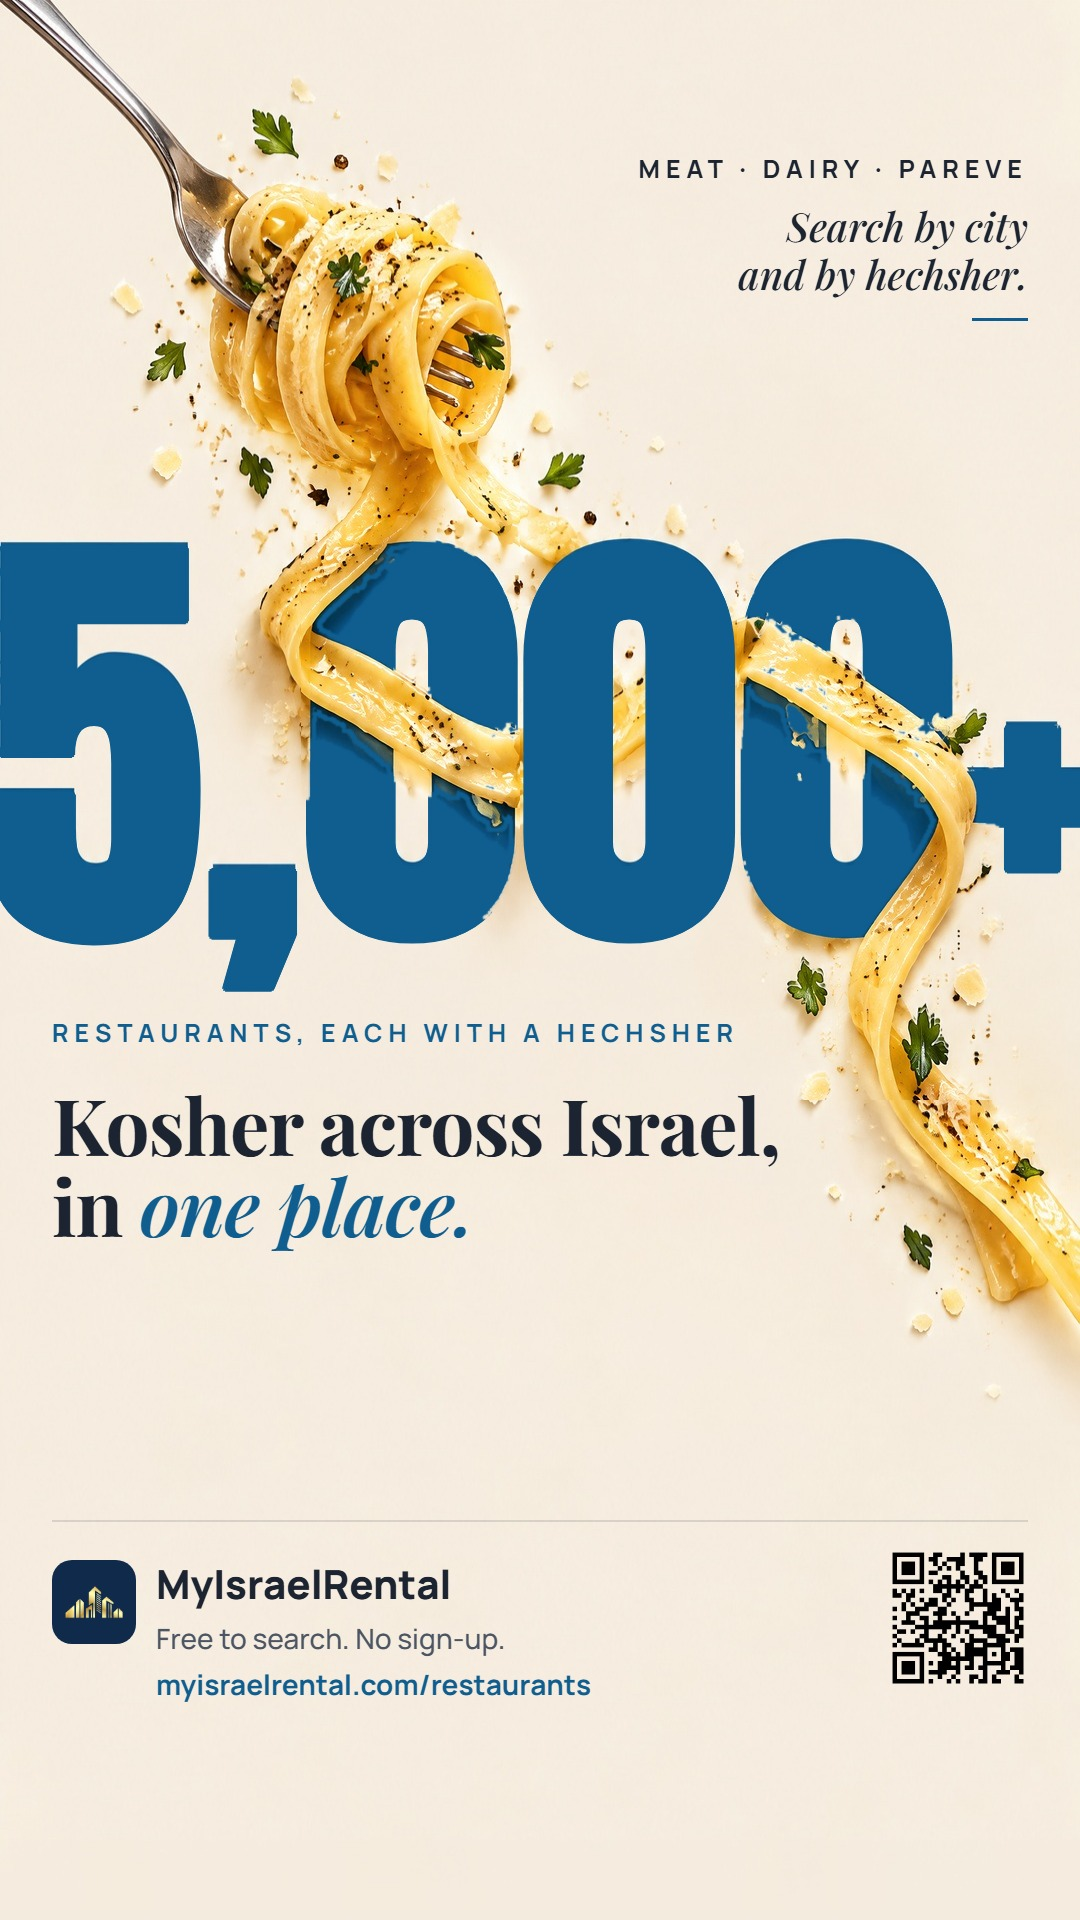
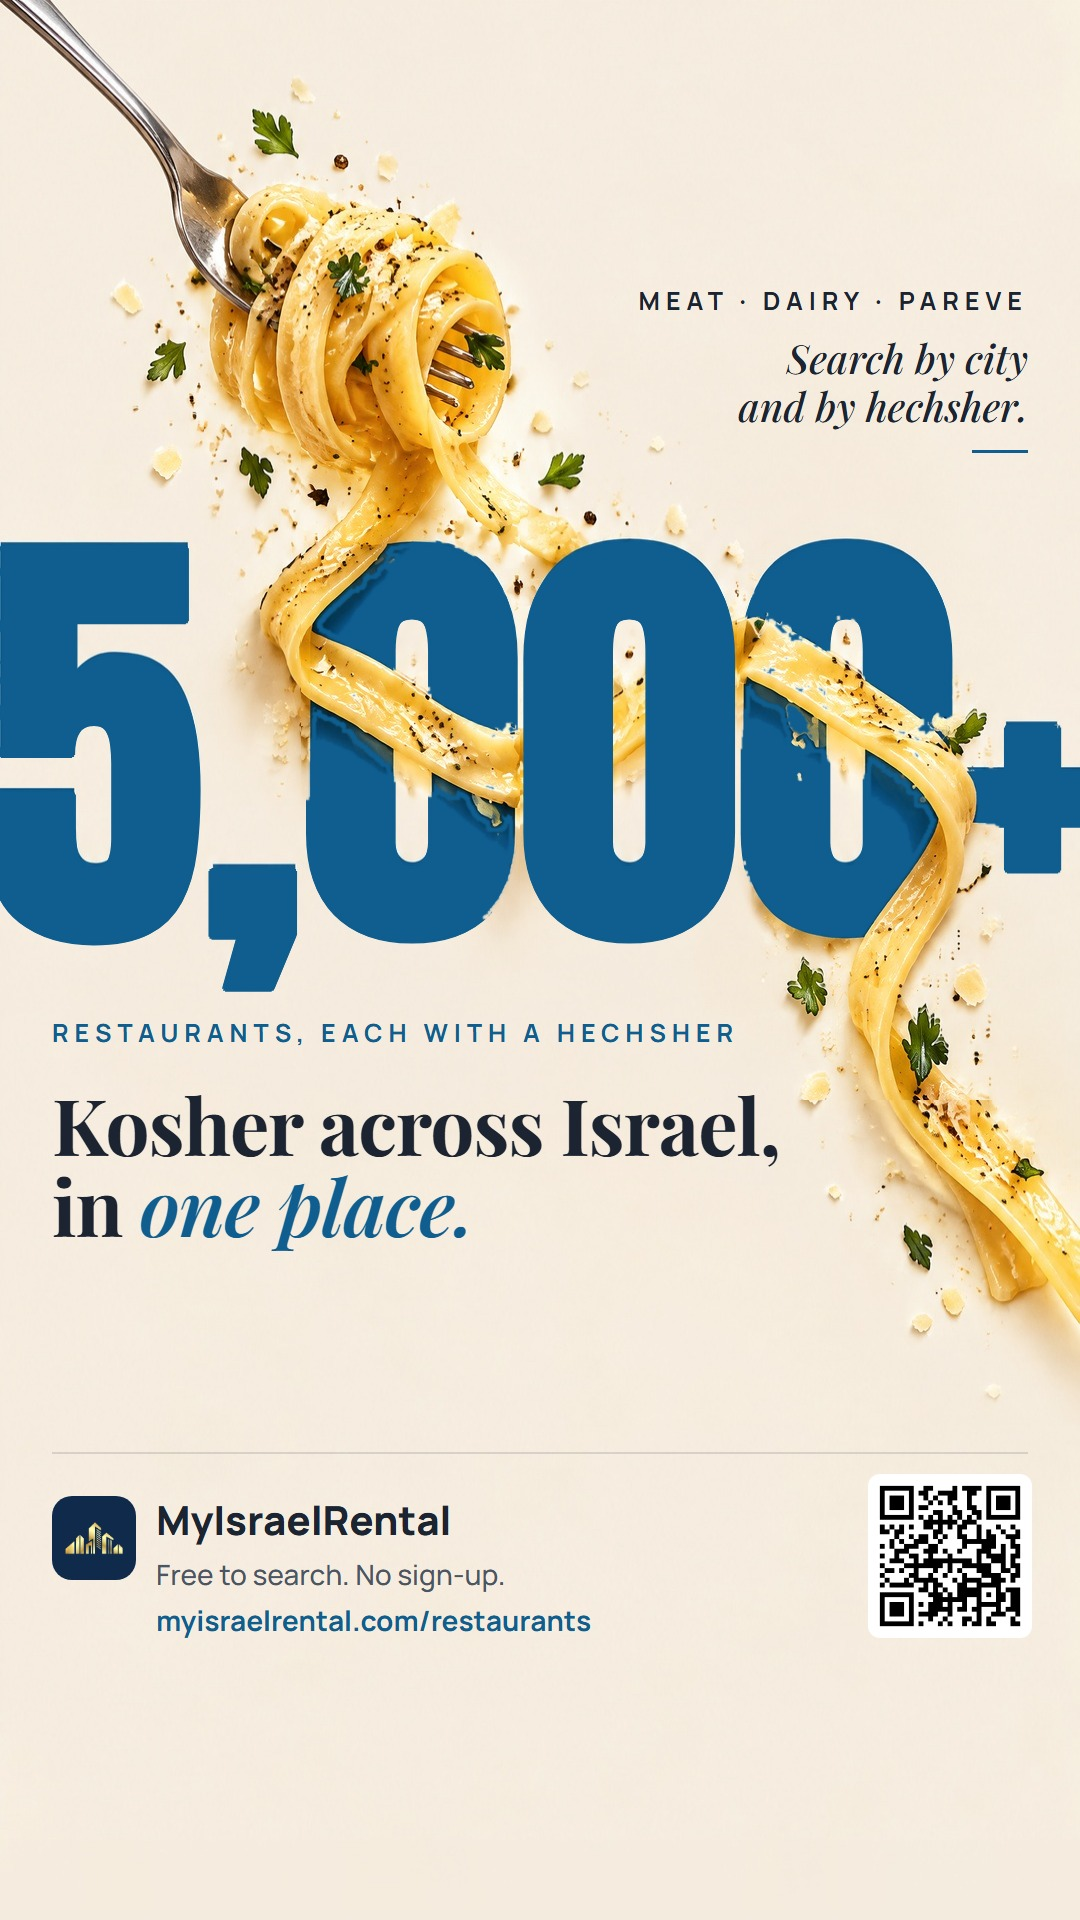
Restaurants ad: whole in a WhatsApp chat (Tzvi, 25 Nov 2026: 'When I send the ad on WhatsApp some of it is cut off unless people press on it'). The top note moves down to 282 and the foot up to 1474-1638, inside the rows 250 to 1670 a chat shows (rule A8.10, sheet docs/ads/myisraelrental-restaurants
Library score 5 (A9.7)

diff --git a/docs/ads/gen/myisraelrental-restaurants-status/ad.html b/docs/ads/gen/myisraelrental-restaurants-status/ad.html
@@ -14,23 +14,24 @@
 html,body{margin:0;background:#111}
 #ad{position:relative;width:1080px;height:1920px;overflow:hidden;background:#F3EBDD url(ground.jpg) 0 0/1080px 1910px no-repeat;font-family:Manrope,sans-serif;color:#1B2430}
 #num{position:absolute;left:-18px;right:-18px;top:520px;text-align:center;font:400 452px/1 Anton,sans-serif;letter-spacing:-6px;white-space:nowrap;color:#0F5E8F;text-shadow:3px 0px 0 #0F5E8F,-3px 0px 0 #0F5E8F,0px 3px 0 #0F5E8F,0px -3px 0 #0F5E8F,2px 2px 0 #0F5E8F,-2px 2px 0 #0F5E8F,2px -2px 0 #0F5E8F,-2px -2px 0 #0F5E8F}
+/* everything that must be read sits between y 250 and 1670, the part a WhatsApp chat shows (A8.10) */
 /* a 3px shadow ring (not a stroke, which seams inside the letters) covers the photo's own digits, a hair larger than ours */
 #front{position:absolute;left:0;top:0;width:1080px;height:1920px;pointer-events:none}
 .caps{font:700 25px/1.5 Manrope,sans-serif;letter-spacing:6px;text-transform:uppercase}
-#note{position:absolute;right:52px;top:150px;width:460px;text-align:right}
+#note{position:absolute;right:52px;top:282px;width:460px;text-align:right}
 #note .i{font:italic 500 40px/1.2 'Playfair Display',serif;margin-top:14px}
 #note .rule{width:56px;height:3px;background:#0F5E8F;margin:20px 0 0 auto}
 #kind{position:absolute;left:52px;top:1014px;color:#0F5E8F}
 #h1{position:absolute;left:52px;top:1084px;width:800px;font:700 78px/1.04 'Playfair Display',serif;letter-spacing:-1px}
 #h1 b{color:#0F5E8F;font-weight:700;font-style:italic}
-#logo{position:absolute;left:52px;top:1560px;width:84px;height:84px;border-radius:20px;background:#0F2A4A;object-fit:contain;padding:12px;box-sizing:border-box}
-#foot{position:absolute;left:156px;top:1556px;width:640px;color:#1B2430}
+#logo{position:absolute;left:52px;top:1496px;width:84px;height:84px;border-radius:20px;background:#0F2A4A;object-fit:contain;padding:12px;box-sizing:border-box}
+#foot{position:absolute;left:156px;top:1492px;width:640px;color:#1B2430}
 #foot .n{font-weight:800;font-size:40px}
 #foot .s{font-weight:500;font-size:28px;margin-top:8px;color:#4B5563}
 #foot .u{font-weight:700;font-size:28px;margin-top:8px;color:#0F5E8F}
-#qr{position:absolute;left:888px;top:1548px;width:140px;height:140px;background:transparent;padding:0;box-sizing:border-box}
-#qr img{width:100%;height:100%;mix-blend-mode:multiply}
-#line{position:absolute;left:52px;right:52px;top:1520px;height:2px;background:#1B243022}
+#qr{position:absolute;left:868px;top:1474px;width:164px;height:164px;background:#fff;border-radius:12px;padding:7px;box-sizing:border-box}
+#qr img{width:100%;height:100%}
+#line{position:absolute;left:52px;right:52px;top:1452px;height:2px;background:#1B243022}
 </style></head><body>
 <div id="ad">
   <div id="num">5,000+</div>

diff --git a/docs/ads/blueprints/myisraelrental-restaurants-status.md b/docs/ads/blueprints/myisraelrental-restaurants-status.md
@@ -145,6 +145,9 @@ Every ad rule, in making order (docs/ad-rules-checklist.md). Answer a stage befo
 - [x] A8.9 The picture that leaves the site is drawn at double size (2160 wide) from the best copy of the photo, never the preview.
   plan: measured by check-ad-designs (sharp)
 
+- [x] A8.10 Whole in a WhatsApp chat: a chat shows a tall picture only as its middle until someone taps it, and most never tap. On a 1080x1920 ad every word, the business's name, the link, the logo and the QR sit between y 250 and 1670 (the 1080x1420 a chat shows, measured on Tzvi's phone); only the picture may run past. Checked on the sheet from python scripts/ad-chat-view.py <ad.jpg> <sheet.jpg>, which the answer names. Applies to every hand-made story ad and new story design from 25 Nov 2026; designs the ad maker already draws keep A8.4.
+  plan: docs/ads/myisraelrental-restaurants-chat-view.jpg: in the chat window (rows 250 to 1670) are the note, the number, 'Restaurants, each with a hechsher', the headline, the logo, the name, 'Free to search. No sign-up.', the link and the 164px QR; only the fork's handle and the pasta's tail run past. Tzvi's screenshot of the first send had the note and the foot cut; both moved in (note at 282, foot at 1474 to 1638).
+
 ## 7. Before it goes out
 
 - [x] A9.1 Drawn and looked at on the real business, at phone size, beside the reference it came from.
